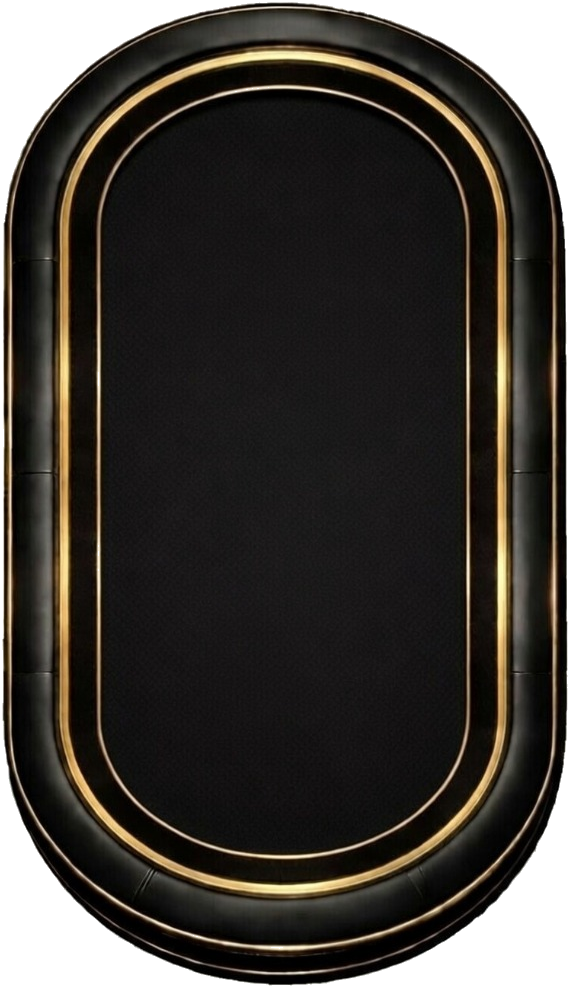
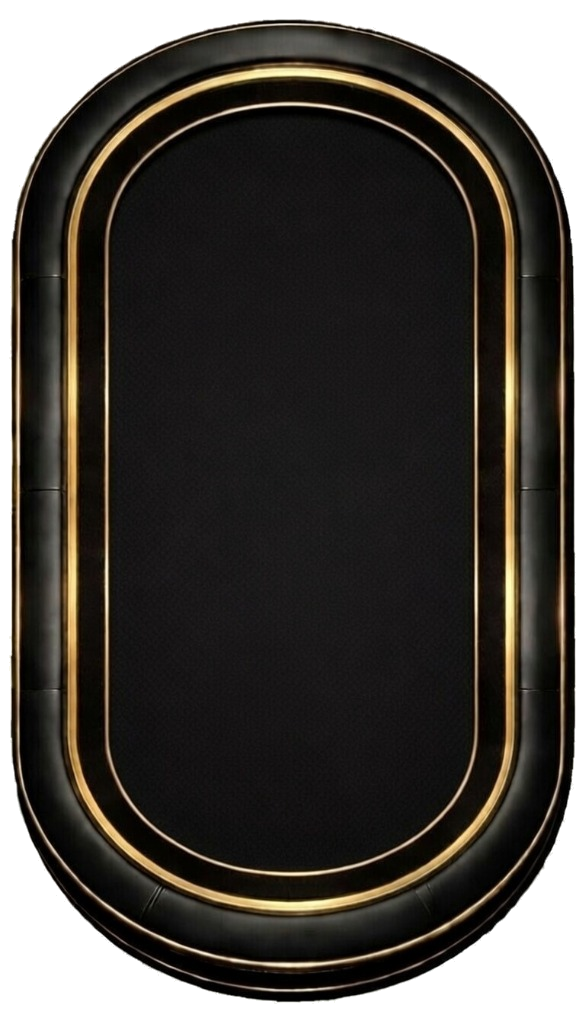
fix: use user's uploaded table with white background removed

Changed region(s): [[0.0, 0.0, 1.0, 1.0]]

diff --git a/src/components/training/games/MTTDeepStackUI.jsx b/src/components/training/games/MTTDeepStackUI.jsx
@@ -117,7 +117,7 @@ export default function MTTDeepStackUI({
             <div style={styles.tableArea}>
                 {/* EXACT TABLE IMAGE */}
                 <img
-                    src="/images/training/table-vertical-stadium.jpg"
+                    src="/images/training/table-vertical-stadium-transparent.png"
                     alt="Poker Table"
                     style={styles.tableImage}
                 />
